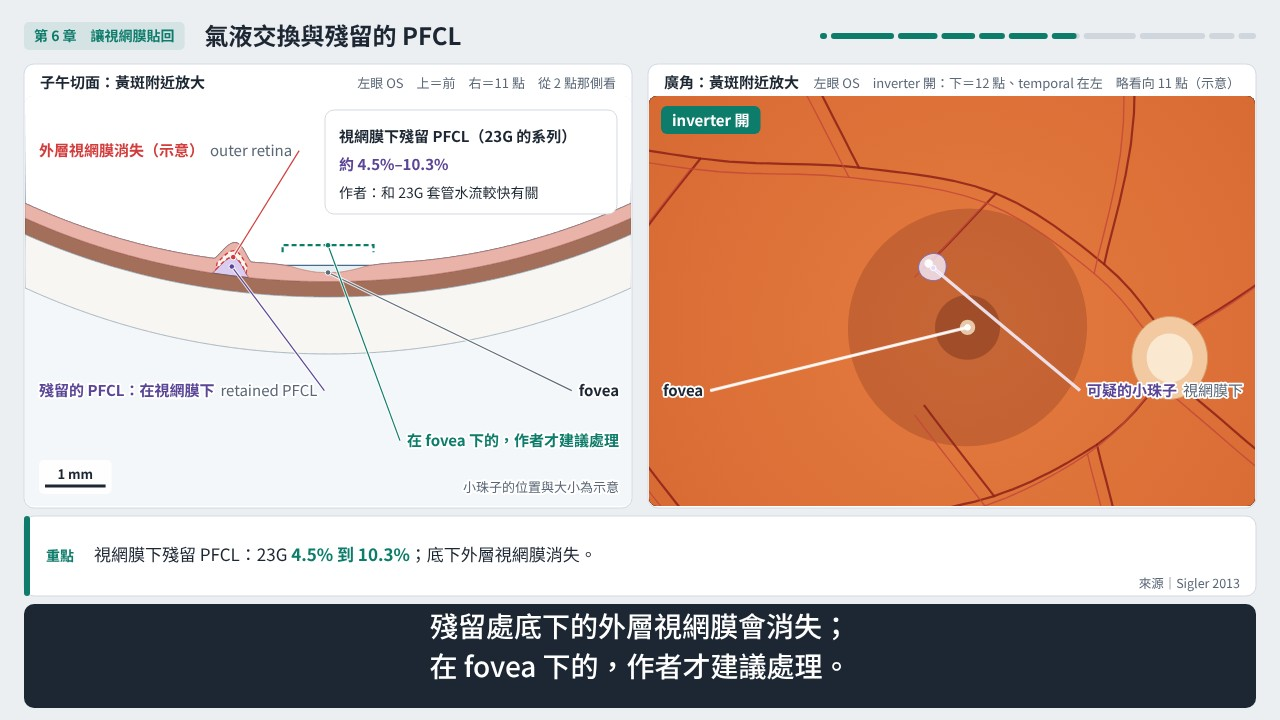
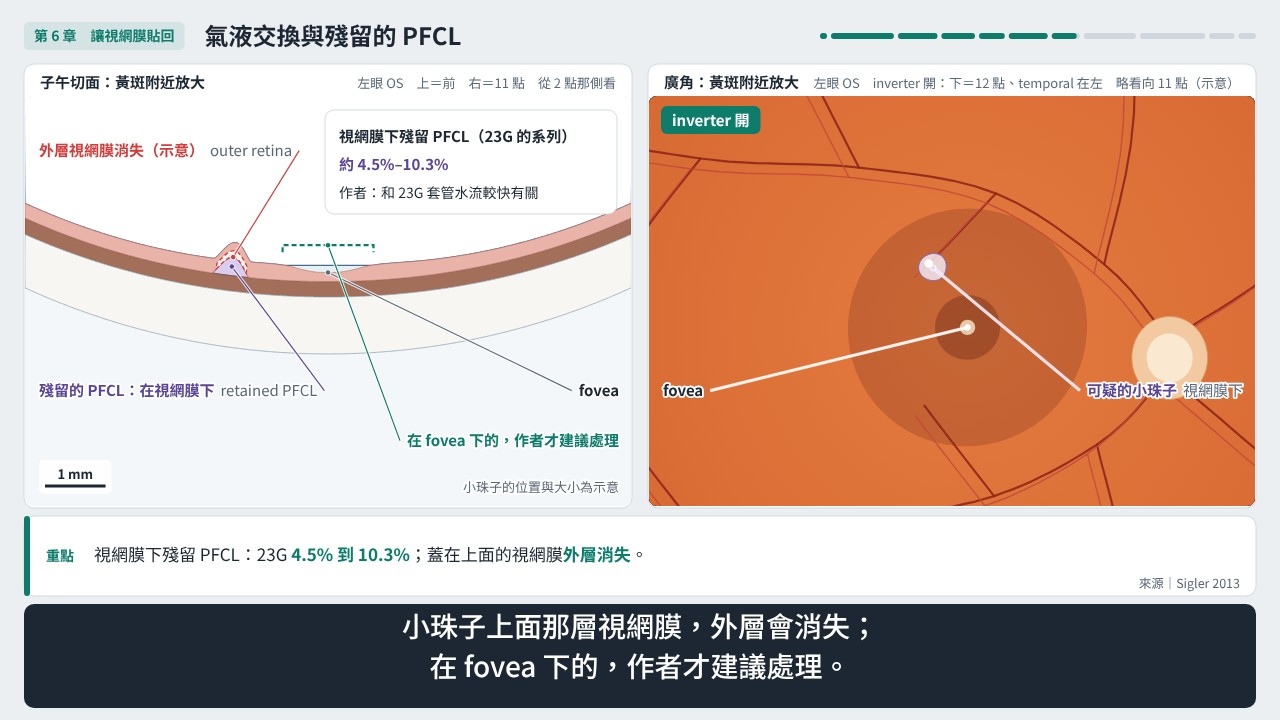
6-2 旁白「殘留處底下的外層視網膜」改成「小珠子上面那層視網膜，外層會消失」
「底下」可能被聽成小珠子的下方（RPE 那側）；Sigler 2013 說的是蓋在殘留 PFCL 上那層視網膜的外層消失，畫面也是這樣畫。重點同步改字，6-2 參考圖重新自檢。文字基準在下一個 commit 更新。

Changed region(s): [[0.3125, 0.8556, 0.6875, 0.8861], [0.3125, 0.7333, 0.5, 0.7944]]

diff --git a/videos/src/rrd-ppv-c3f8/anim/segments.js b/videos/src/rrd-ppv-c3f8/anim/segments.js
@@ -170,10 +170,10 @@ const SEGS = [
   lines: ['接著做氣液交換：空氣從 infusion 進來，浮在上面；\n主刀在後面把液體吸掉。',
           'PFCL 也要在這時吸乾淨。',
           'PFCL 可能殘留在視網膜下：23G 的系列約 4.5% 到 10.3%；\n作者認為和 23G 套管的水流較快有關。',
-          '殘留處底下的外層視網膜會消失；\n在 fovea 下的，作者才建議處理。',
+          '小珠子上面那層視網膜，外層會消失；\n在 fovea 下的，作者才建議處理。',
           '看到視網膜下可疑的小珠子，\n提出來讓主刀確認。'],
   keys: [[0, '氣液交換：空氣<b>浮在上面</b>、液體從後面吸掉；PFCL 要<b>吸乾淨</b>。'],
-         [2, '視網膜下殘留 PFCL：23G <b>4.5% 到 10.3%</b>；底下外層視網膜消失。']],
+         [2, '視網膜下殘留 PFCL：23G <b>4.5% 到 10.3%</b>；蓋在上面的視網膜<b>外層消失</b>。']],
   src: [[0, 'EyeWiki 2026a'], [2, 'Figueroa 2013；Garg 2012'], [3, 'Sigler 2013']] },
 
 // ---------------------------------------------------------------- 7 雷射、C3F8 與關傷口

diff --git a/videos/src/rrd-ppv-c3f8/spec.md b/videos/src/rrd-ppv-c3f8/spec.md
@@ -123,4 +123,4 @@
   - 模型：`posterior.js` 加選用的 `bead`（視網膜下殘留的 PFCL 小珠子；沒給就和原本相同，樣本圖與第 1–5 章參考圖比對 0.000%），`posterior/check.js` 加 D14 與 3 個故意改錯（47 條、64 個改法全部 PASS），模型卡已補（含 `needle` 器械與「廣角的剝離色塊不管 PFCL」的坑）。影片視角包裝加第 6 章的狀態（`pfclStep`、`airStep`、`outStep`、`ST.pre61`／`done62`／`bead62`、`w6`）、液體路徑 `flow61`、`rtomy`、PFCL 碰到視網膜的那一圈 `pfclRing`、`edgeAt`；廣角加 `pfclFlat`（那一圈以內改畫貼平的視網膜與淡紫色，示意）。
   - 檢查：`check.js` 加 8 條旁白↔模型檢查（M31 PFCL 在最低處、液面水平且逐步升高、針尖在 PFCL 裡；M32 液面以下視網膜高度 0、以上剝離不變、貼平範圍逐步變大；M33 每一格液面都低於裂孔與瓣，液體在視網膜下往前、穿過裂孔進到 PFCL 上方的玻璃體腔；M34 drainage retinotomy 在剝離的視網膜上、黃斑外、切面與廣角同一點；M35 空氣在最高處、infusion 尖端在空氣裡、氣液界面水平且逐步下降、不低於 PFCL；M36 PFCL 吸完、視網膜全部貼平、剩下的剝離隨空氣逐步貼平；M37 小珠子在視網膜下的 PFCL 欄位（不在視網膜下液、視網膜或玻璃體腔）、切面與廣角同一位置、在 fovea 外；M38 器械只經 trocar、兩個視角畫同一個狀態），`--selftest` 加 8 個故意改錯，每個都抓到指定的檢查；數字帳本加鐘點刻度、切面方位、trocar 與 infusion 的鐘點（結構、示意）與 1 mm 比例尺。參考圖 2 張（6-1 第 3 句、6-2 第 4 句）。check-all 全部 PASS。
   - 示意（出片前的總覽要列出）：PFCL 的量（45%）與步數；PFCL 注射針與吸液體的針（器械種類、尖端位置）；液體路徑的箭頭；drainage retinotomy 的位置；廣角略看向 11 點與 PFCL 的淡紫色；PFCL–空氣交換的順序（先讓空氣降到 PFCL 液面、剩下的剝離同時貼平、最後吸 PFCL：`research/intraop.md` 題 6 查不到 RRD 的步驟順序，畫面標「順序依主刀（示意）」）；infusion 在切面外的投影位置；殘留小珠子的位置與大小、外層視網膜消失的畫法。
-  - 待確認：6-2 第 4 句旁白「殘留處底下的外層視網膜會消失」：Sigler 2013 說的是殘留處的外層視網膜消失（視網膜蓋在小珠子上，外層是貼著小珠子的那一層），畫面照這樣畫；「底下」可能被讀成小珠子的下方（RPE 那側）。旁白沒改。
+  - 已改（2026-11-12 主對話）：6-2 第 4 句旁白原為「殘留處底下的外層視網膜會消失」，「底下」可能被讀成小珠子的下方（RPE 那側）；改成「小珠子上面那層視網膜，外層會消失」，重點改成「蓋在上面的視網膜外層消失」，和 Sigler 2013（殘留處的外層視網膜消失）與畫面一致。文字基準 textBase 隨之更新。
